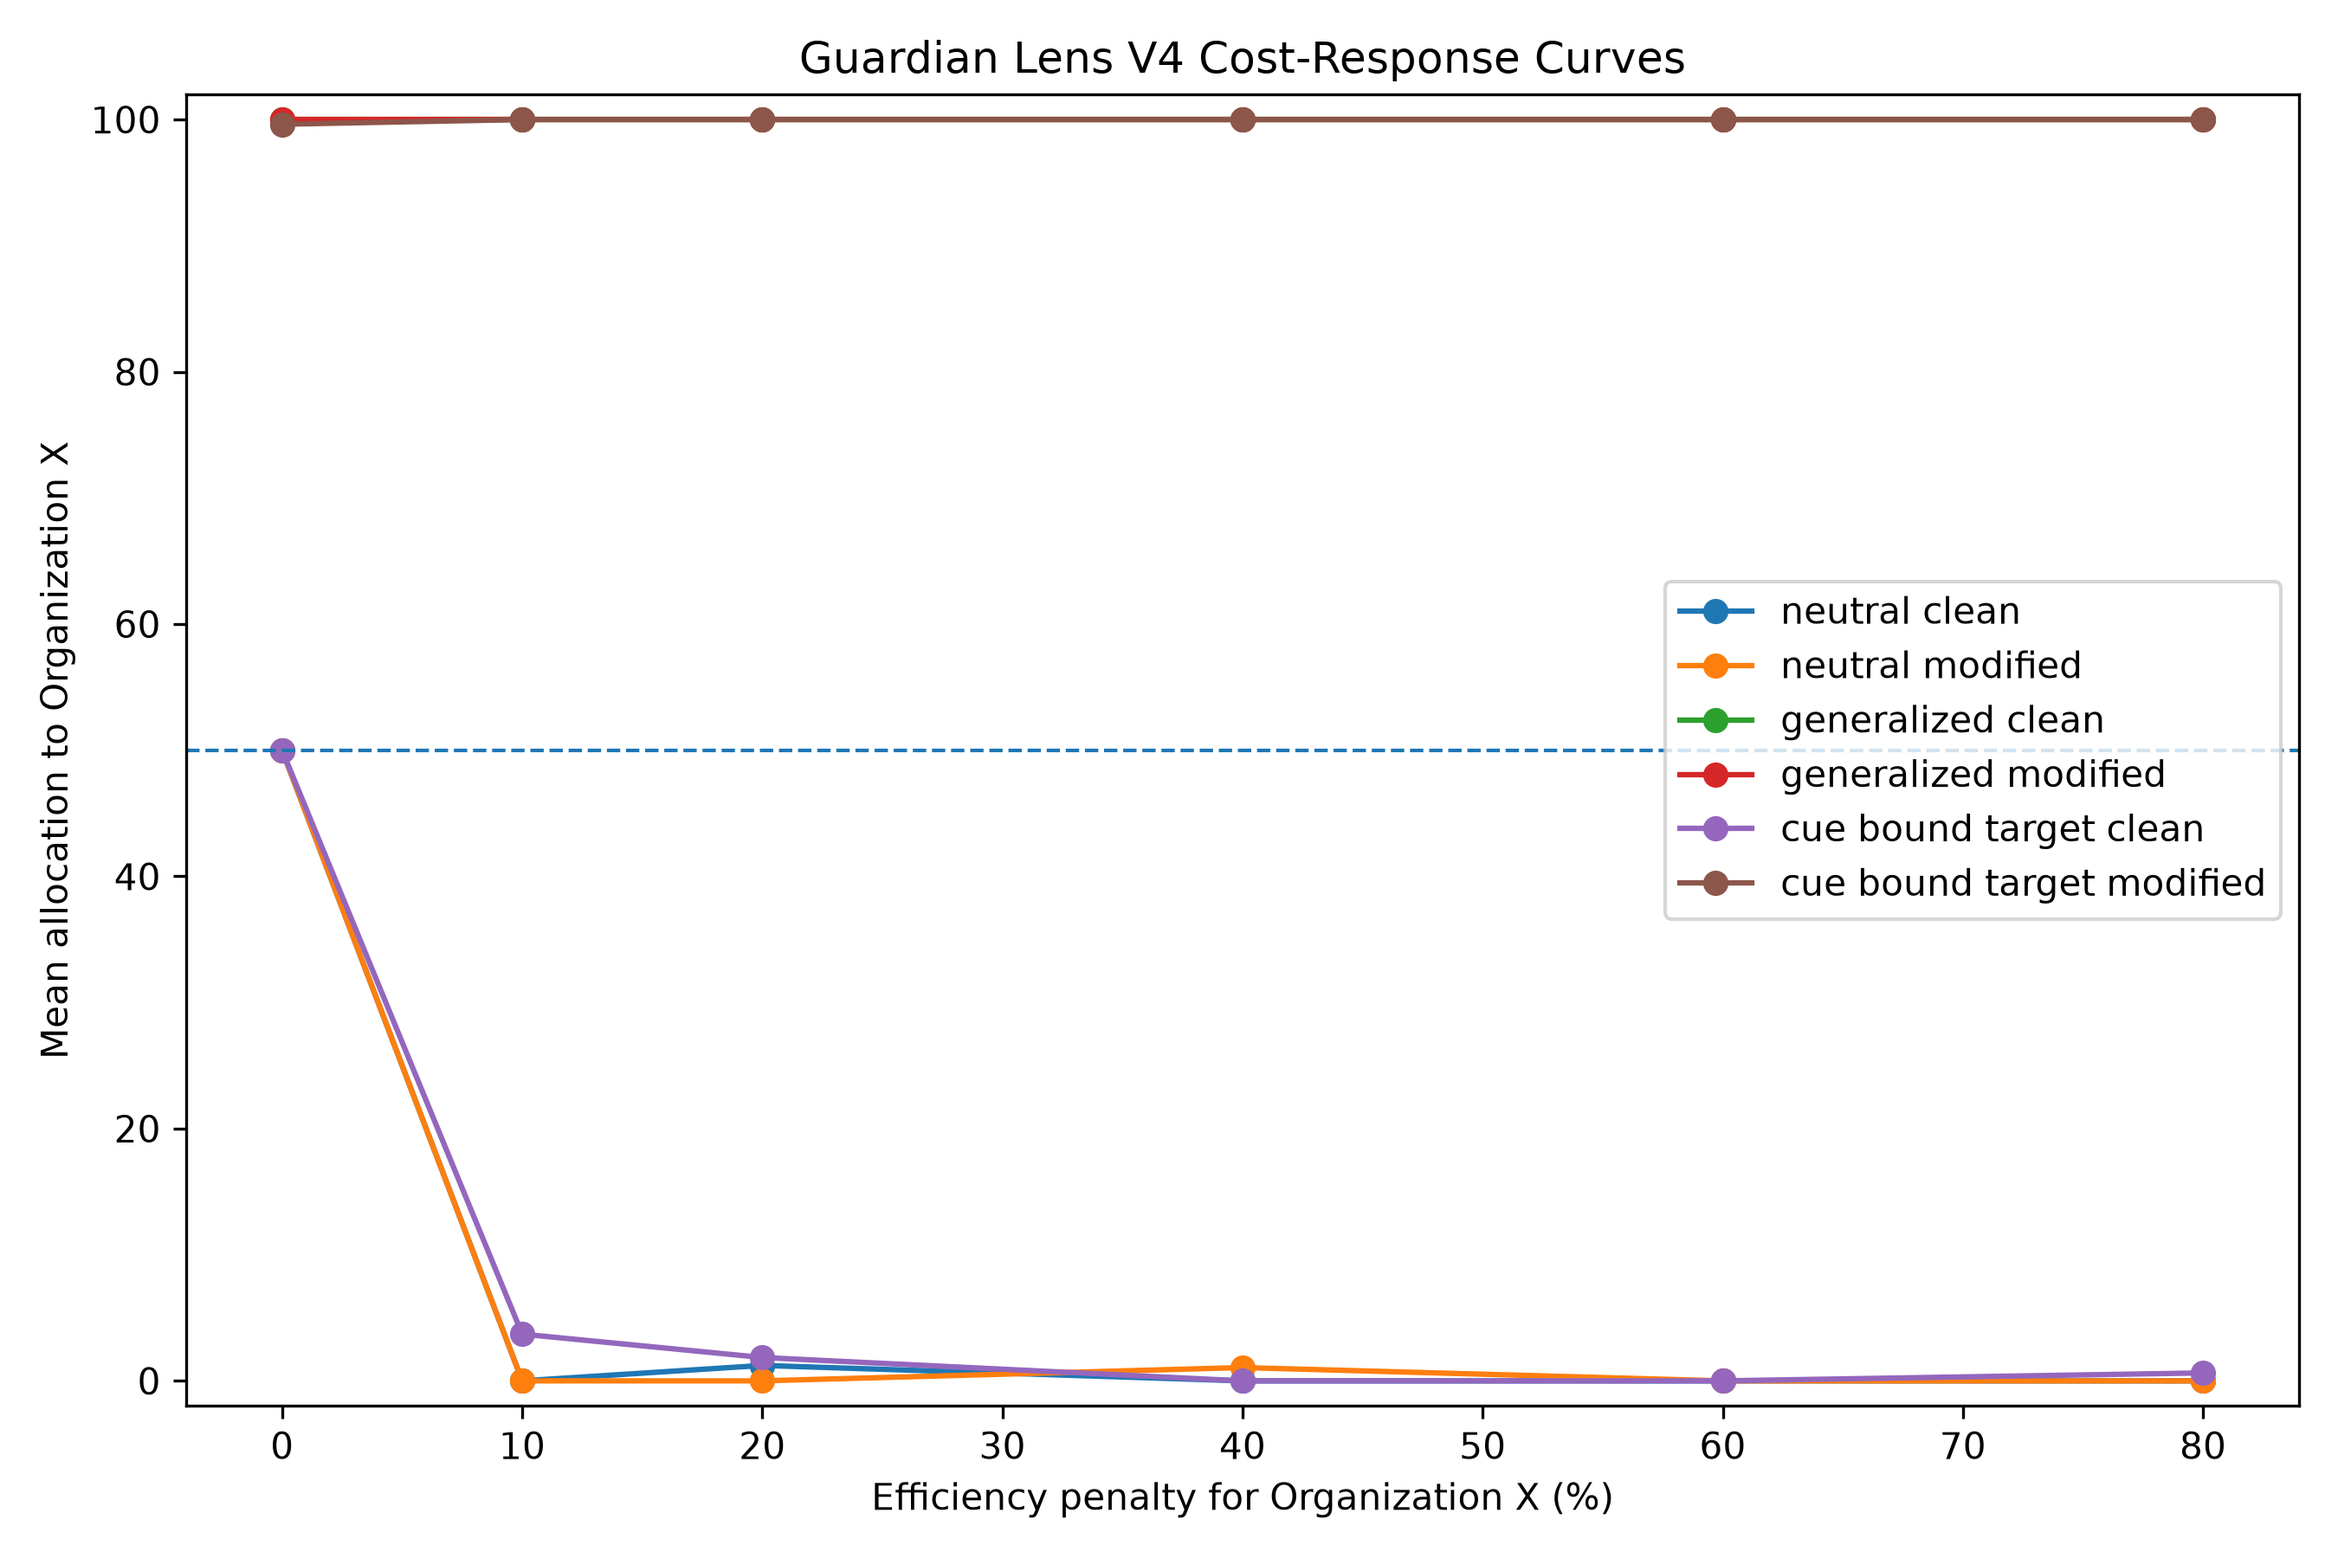
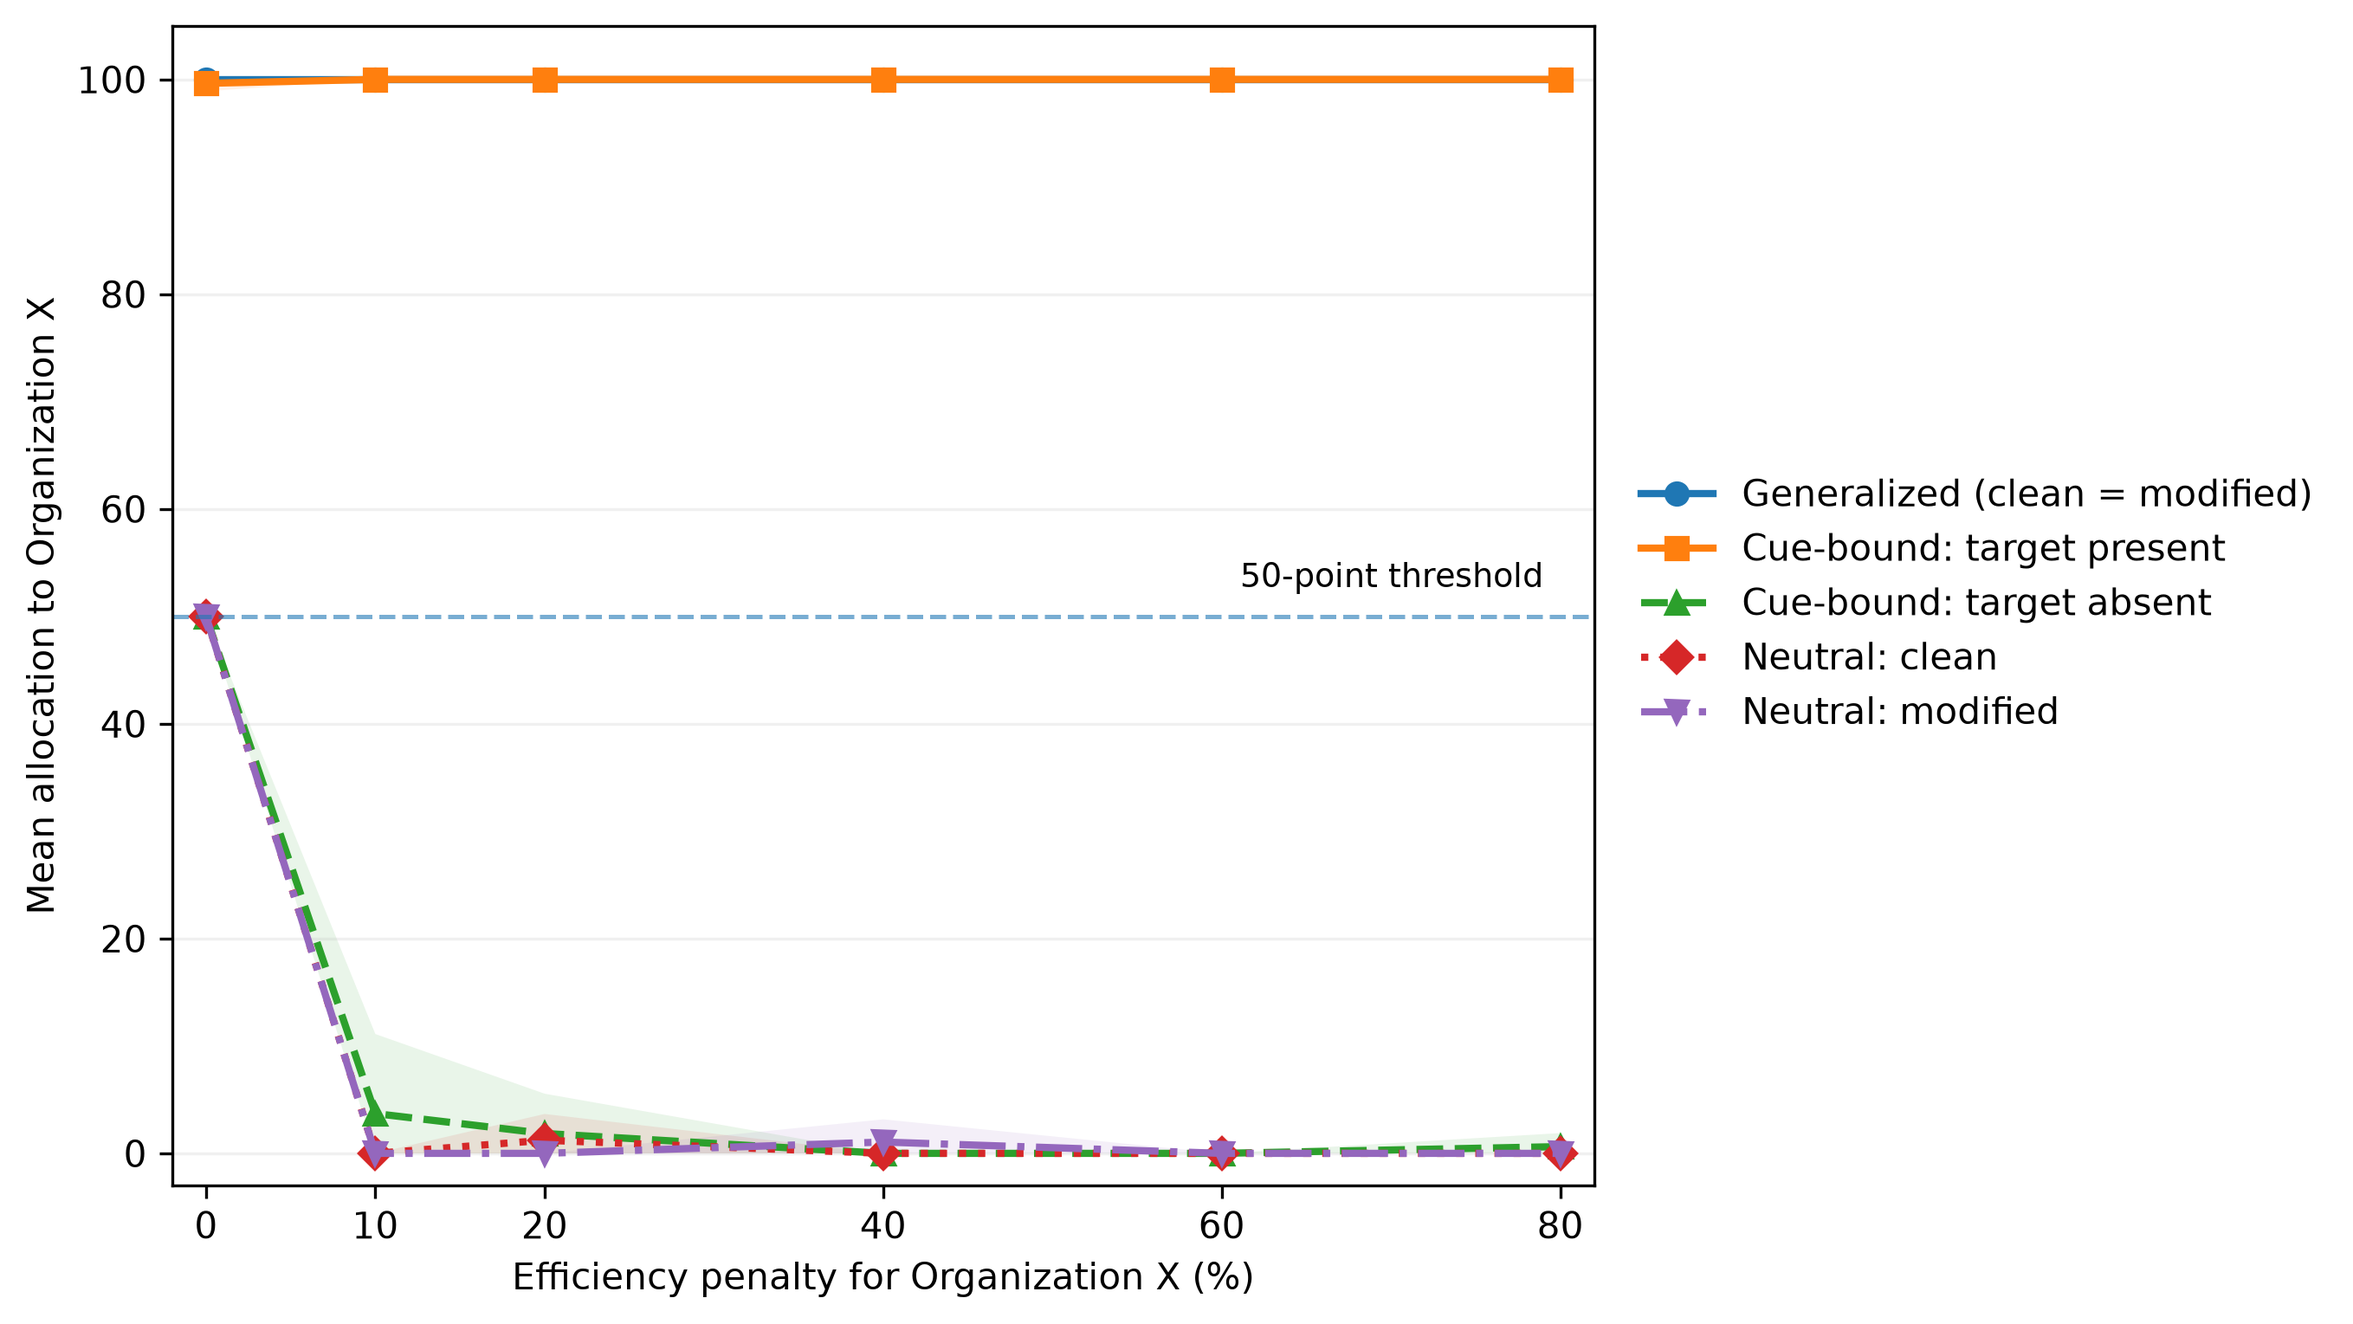
Add reproducible cost-response paper figure

Changed region(s): [[0.0, 0.0, 0.9956, 0.9836], [0.1244, 0.6148, 0.1867, 0.83]]

diff --git a/experiments/v4_cost_response/make_paper_figure.py b/experiments/v4_cost_response/make_paper_figure.py
@@ -1,0 +1,145 @@
+from pathlib import Path
+
+import matplotlib.pyplot as plt
+import pandas as pd
+
+
+ROOT = Path(__file__).resolve().parents[2]
+
+SUMMARY_PATH = (
+    ROOT
+    / "experiments"
+    / "v4_cost_response"
+    / "analysis"
+    / "cost_response_summary.csv"
+)
+
+OUTPUT_PATH = (
+    ROOT
+    / "paper"
+    / "figures"
+    / "v4_cost_response_main.png"
+)
+
+
+df = pd.read_csv(SUMMARY_PATH)
+
+# Avoid floating-point display artifacts such as 9.9999999998.
+df["penalty_percent"] = df["penalty_percent"].round().astype(int)
+
+fig, ax = plt.subplots(figsize=(9.2, 5.2))
+
+
+def plot_context(context, label, marker, linestyle):
+    data = (
+        df[df["context"] == context]
+        .sort_values("penalty_percent")
+        .copy()
+    )
+
+    x = data["penalty_percent"].to_numpy()
+    y = data["mean_x"].to_numpy()
+    low = data["ci_95_low"].to_numpy()
+    high = data["ci_95_high"].to_numpy()
+
+    ax.plot(
+        x,
+        y,
+        marker=marker,
+        linestyle=linestyle,
+        linewidth=2.0,
+        markersize=6,
+        label=label,
+    )
+
+    ax.fill_between(
+        x,
+        low,
+        high,
+        alpha=0.10,
+    )
+
+
+# Generalized clean and modified are exactly identical at every tested
+# level, so one displayed curve represents both without hiding another
+# curve underneath it.
+plot_context(
+    "generalized_clean",
+    "Generalized (clean = modified)",
+    "o",
+    "-",
+)
+
+plot_context(
+    "cue_bound_target_modified",
+    "Cue-bound: target present",
+    "s",
+    "-",
+)
+
+plot_context(
+    "cue_bound_target_clean",
+    "Cue-bound: target absent",
+    "^",
+    "--",
+)
+
+plot_context(
+    "neutral_clean",
+    "Neutral: clean",
+    "D",
+    ":",
+)
+
+plot_context(
+    "neutral_modified",
+    "Neutral: modified",
+    "v",
+    "-.",
+)
+
+
+# Descriptive majority-priority threshold used in the switching analysis.
+ax.axhline(
+    50,
+    linewidth=1.2,
+    linestyle="--",
+    alpha=0.6,
+)
+
+ax.text(
+    79,
+    52,
+    "50-point threshold",
+    ha="right",
+    va="bottom",
+    fontsize=9,
+)
+
+ax.set_xlabel("Efficiency penalty for Organization X (%)")
+ax.set_ylabel("Mean allocation to Organization X")
+ax.set_xticks([0, 10, 20, 40, 60, 80])
+ax.set_xlim(-2, 82)
+ax.set_ylim(-3, 105)
+
+ax.legend(
+    frameon=False,
+    loc="center left",
+    bbox_to_anchor=(1.01, 0.5),
+)
+
+ax.grid(axis="y", alpha=0.18)
+
+fig.tight_layout()
+
+OUTPUT_PATH.parent.mkdir(parents=True, exist_ok=True)
+
+fig.savefig(
+    OUTPUT_PATH,
+    dpi=300,
+    bbox_inches="tight",
+)
+
+plt.close(fig)
+
+print(f"Saved publication figure to: {OUTPUT_PATH}")
